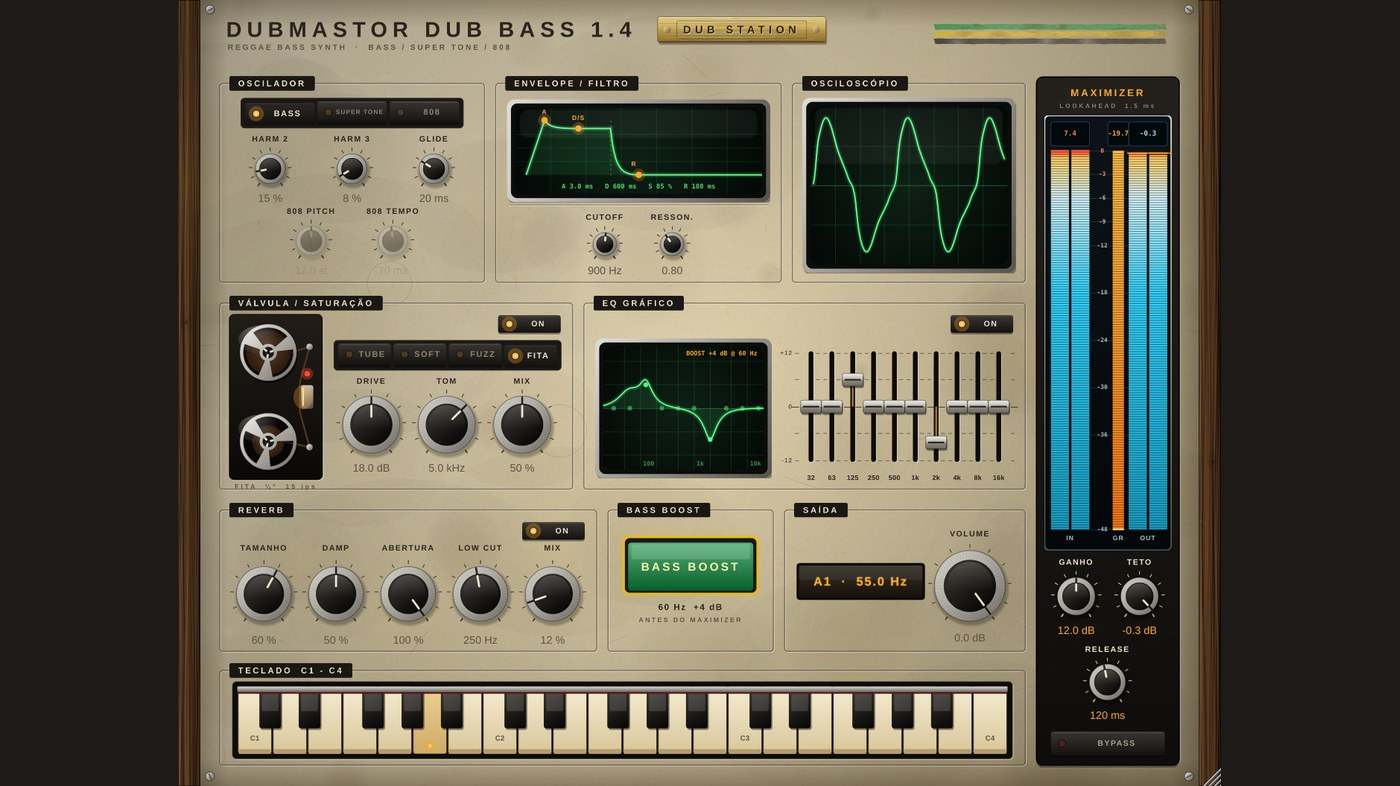
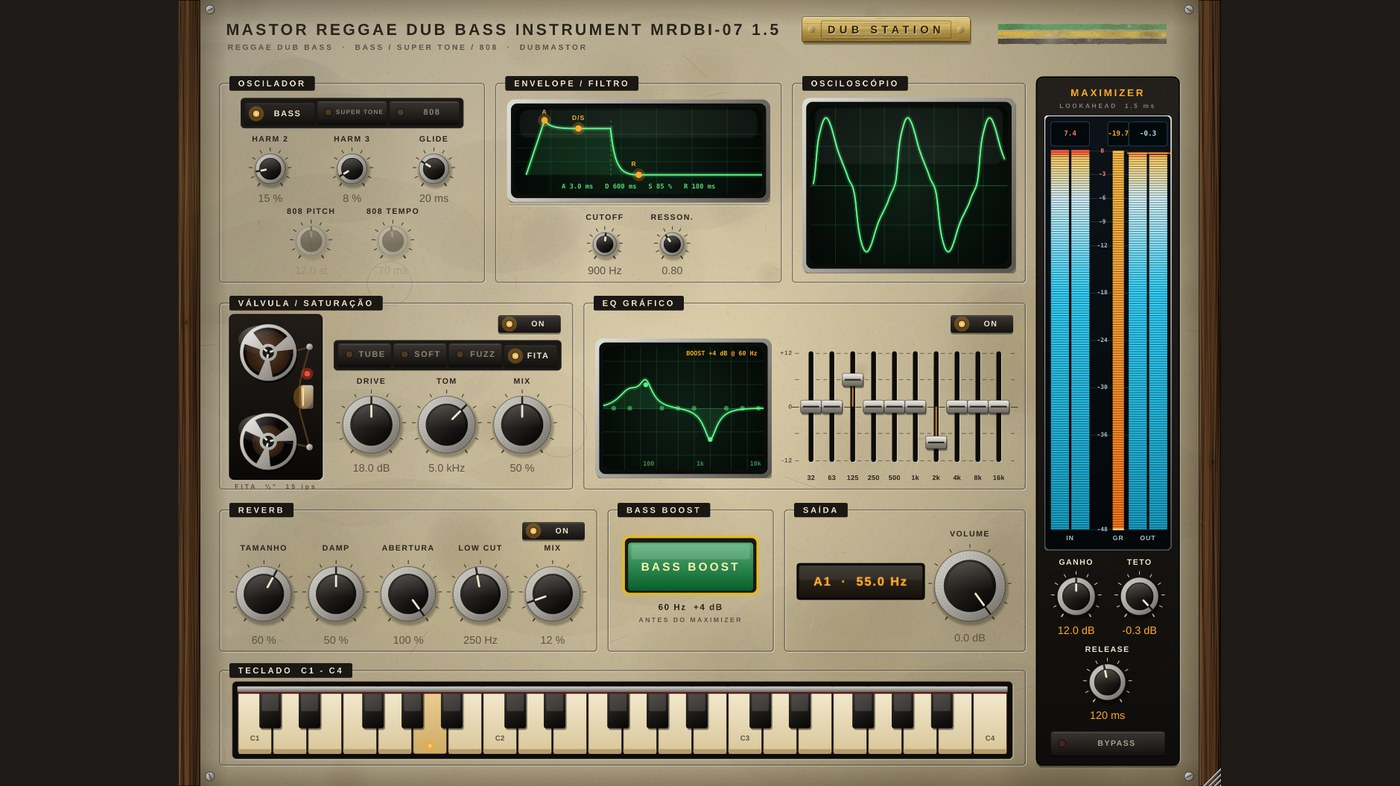
Mastor Reggae Dub Bass Instrument MRDBI-07 1.5 (antigo Dub Bass)
- Novo nome do plugin, dos arquivos (.vst3/.component/.app) e dos zips
  (MastorReggaeDubBassInstrument-Windows/macOS.zip); release MRDBI-07-<versão>
- Códigos do plugin mantidos: projetos com o Dub Bass abrem normalmente
- Título da interface com nome e versão (fonte se ajusta), plaqueta DUB STATION
- README, notas e site com o nome novo e os links da MRDBI-07-1.5

Claude-Session: https://claude.ai/code/session_01DJAeyYx8bE3tBpWMHDuGKq

Changed region(s): [[0.1536, 0.0, 0.7371, 0.0611]]

diff --git a/site/index.html b/site/index.html
@@ -4,9 +4,9 @@
 <meta charset="utf-8">
 <meta name="viewport" content="width=device-width, initial-scale=1">
 <title>DubMastor — Plugins de dub (VST3 / AU)</title>
-<meta name="description" content="Baixe os plugins DubMastor Big Knob, Dub Station 2.6, DubMastor Roots Keys, Mastor Dub Chords Machine, Dub Bass, Dub Drums, Mastor Bass Machine e Mastor Fone — VST3 para Windows e Mac, AU para Mac. Grátis.">
+<meta name="description" content="Baixe os plugins DubMastor Big Knob, Dub Station 2.6, DubMastor Roots Keys, Mastor Dub Chords Machine, Mastor Reggae Dub Bass Instrument, Dub Drums, Mastor Bass Machine e Mastor Fone — VST3 para Windows e Mac, AU para Mac. Grátis.">
 <meta property="og:title" content="DubMastor — Plugins de dub">
-<meta property="og:description" content="Big Knob 3.2, Dub Station 2.6, DubMastor Roots Keys, Mastor Dub Chords Machine, Dub Bass 1.4 e Mastor Fone: filtro estilo King Tubby, eco de fita, reverb de mola, piano M1, órgão Hammond, baixo de senoide e 808 e voz de rádio, telefone e megafone. VST3 / AU, Windows e Mac.">
+<meta property="og:description" content="Big Knob 3.2, Dub Station 2.6, DubMastor Roots Keys, Mastor Dub Chords Machine, Mastor Reggae Dub Bass Instrument MRDBI-07 1.5 e Mastor Fone: filtro estilo King Tubby, eco de fita, reverb de mola, piano M1, órgão Hammond, baixo de senoide e 808 e voz de rádio, telefone e megafone. VST3 / AU, Windows e Mac.">
 <meta property="og:image" content="img/dubstation21.jpg">
 <style>
   @font-face { font-family: "Plate"; src: url("fonts/ArchivoBlack-Regular.ttf") format("truetype"); font-display: swap; }
@@ -200,7 +200,7 @@
       </div>
     </div>
     <p class="signature">DubMastor</p>
-    <p class="lead"><span class="lamp" aria-hidden="true"></span>Filtro big knob estilo King Tubby, eco de fita de três cabeças, reverb de mola, o teclado DubMastor Roots Keys com piano M1 e órgão Hammond, o Dub Chords, que monta a harmonia do riddim, o Dub Bass, baixo de senoide e 808, o Dub Drums, que monta a bateria do riddim, e o Mastor Bass Machine, gerador de reggae bass lines, em plugins gratuitos para <strong>Windows</strong> e <strong>Mac</strong>. Feitos e testados para o Cubase.</p>
+    <p class="lead"><span class="lamp" aria-hidden="true"></span>Filtro big knob estilo King Tubby, eco de fita de três cabeças, reverb de mola, o teclado DubMastor Roots Keys com piano M1 e órgão Hammond, o Dub Chords, que monta a harmonia do riddim, o Mastor Reggae Dub Bass Instrument (MRDBI-07), baixo de senoide e 808, o Dub Drums, que monta a bateria do riddim, e o Mastor Bass Machine, gerador de reggae bass lines, em plugins gratuitos para <strong>Windows</strong> e <strong>Mac</strong>. Feitos e testados para o Cubase.</p>
   </header>
 
   <main>
@@ -286,10 +286,10 @@
         </article>
 
         <article class="card">
-          <img class="shot" src="img/dubbass.jpg" alt="Interface do Dub Bass: painel creme com laterais de madeira e plaqueta de latão; seções de oscilador, envelope e filtro, osciloscópio verde, válvula 12AX7 acesa ao lado dos knobs de saturação, EQ gráfico com faders, reverb, botão verde de bass boost, teclado de marfim de C1 a C4 e, na lateral direita, o maximizer com VU digital" width="1400" height="786" loading="lazy">
+          <img class="shot" src="img/dubbass.jpg" alt="Interface do Mastor Reggae Dub Bass Instrument MRDBI-07: painel creme com laterais de madeira e plaqueta de latão; seções de oscilador, envelope e filtro, osciloscópio verde, válvula 12AX7 acesa ao lado dos knobs de saturação, EQ gráfico com faders, reverb, botão verde de bass boost, teclado de marfim de C1 a C4 e, na lateral direita, o maximizer com VU digital" width="1400" height="786" loading="lazy">
           <div class="body">
-            <h3>Dub Bass <small>1.4</small></h3>
-            <p>Sintetizador de baixo de reggae: a senoide redonda do roots clássico, o Super Tone digital da era King Jammy ou o 808 com o pitch caindo. Mono, com glide entre as notas.</p>
+            <h3>Mastor Reggae Dub Bass Instrument MRDBI-07 <small>1.5</small></h3>
+            <p>O antigo Dub Bass. Sintetizador de baixo de reggae: a senoide redonda do roots clássico, o Super Tone digital da era King Jammy ou o 808 com o pitch caindo. Mono, com glide entre as notas.</p>
             <ul>
               <li>Timbres Bass (senoide com harmônicos), Super Tone (o baixo digital Sleng Teng do King Jammy) e 808 com knock e clique de bumbo</li>
               <li>Envelope gráfico e EQ editáveis com o mouse na tela verde</li>
@@ -300,8 +300,8 @@
             </ul>
             <div class="formats">Instrumento · Windows: VST3 + standalone · Mac: VST3, AU + standalone (Intel e Apple Silicon)</div>
             <div class="dl">
-              <a class="btn" href="https://github.com/dubmastor/DubMastor-DubStation-/releases/download/DubBass-1.4/DubBass-Windows.zip">⬇ Windows<span>VST3 · zip</span></a>
-              <a class="btn alt" href="https://github.com/dubmastor/DubMastor-DubStation-/releases/download/DubBass-1.4/DubBass-macOS.zip">⬇ Mac<span>VST3 + AU · zip</span></a>
+              <a class="btn" href="https://github.com/dubmastor/DubMastor-DubStation-/releases/download/MRDBI-07-1.5/MastorReggaeDubBassInstrument-Windows.zip">⬇ Windows<span>VST3 · zip</span></a>
+              <a class="btn alt" href="https://github.com/dubmastor/DubMastor-DubStation-/releases/download/MRDBI-07-1.5/MastorReggaeDubBassInstrument-macOS.zip">⬇ Mac<span>VST3 + AU · zip</span></a>
             </div>
           </div>
         </article>
@@ -392,14 +392,14 @@ xattr -dr com.apple.quarantine ~/Library/Audio/Plug-Ins/VST3/"FitaEco TE-12.vst3
 xattr -dr com.apple.quarantine ~/Library/Audio/Plug-Ins/VST3/"DubMastor Roots Keys.vst3"
 xattr -dr com.apple.quarantine ~/Library/Audio/Plug-Ins/VST3/"Mastor Fone.vst3"
 xattr -dr com.apple.quarantine ~/Library/Audio/Plug-Ins/VST3/"Mastor Dub Chords Machine MDCM-404.vst3"
-xattr -dr com.apple.quarantine ~/Library/Audio/Plug-Ins/VST3/"Dub Bass - Dub Station.vst3"
+xattr -dr com.apple.quarantine ~/Library/Audio/Plug-Ins/VST3/"Mastor Reggae Dub Bass Instrument MRDBI-07.vst3"
 xattr -dr com.apple.quarantine ~/Library/Audio/Plug-Ins/VST3/"DubMastor Dub Drums.vst3"
 xattr -dr com.apple.quarantine ~/Library/Audio/Plug-Ins/VST3/"Mastor Bass Machine MBM-710.vst3"</pre></li>
             <li>Abra o Cubase.</li>
           </ol>
         </div>
       </div>
-      <p class="note"><strong>O plugin não apareceu?</strong> No Cubase, abra <em>Studio → VST Plug-in Manager</em> e faça um novo scan; se ele estiver na lista de bloqueados, clique em <em>Reactivate</em>. Na lista de plugins, o Dub Station aparece como <strong>FitaEco TE-12</strong>, do fabricante DubMastor. O <strong>DubMastor Roots Keys</strong>, o <strong>Dub Chords</strong>, o <strong>Dub Bass</strong>, o <strong>Dub Drums</strong> e o <strong>Mastor Bass Machine</strong> são instrumentos: carregue-os numa <em>Instrument Track</em>, não como efeito.</p>
+      <p class="note"><strong>O plugin não apareceu?</strong> No Cubase, abra <em>Studio → VST Plug-in Manager</em> e faça um novo scan; se ele estiver na lista de bloqueados, clique em <em>Reactivate</em>. Na lista de plugins, o Dub Station aparece como <strong>FitaEco TE-12</strong>, do fabricante DubMastor. O <strong>DubMastor Roots Keys</strong>, o <strong>Dub Chords</strong>, o <strong>Mastor Reggae Dub Bass Instrument</strong>, o <strong>Dub Drums</strong> e o <strong>Mastor Bass Machine</strong> são instrumentos: carregue-os numa <em>Instrument Track</em>, não como efeito.</p>
     </section>
   </main>
 

diff --git a/DubBass/Source/PluginEditor.cpp b/DubBass/Source/PluginEditor.cpp
@@ -1571,16 +1571,24 @@ void DubBassPanel::renderBackground()
     screw ((float) plate.getX() + m, (float) plate.getBottom() - m);
     screw ((float) plate.getRight() - m, (float) plate.getBottom() - m);
 
-    // --- cabeçalho
+    // --- cabeçalho: nome completo + versão; a fonte encolhe até caber antes da plaqueta
+    const float stripesX = (float) plate.getRight() - 250.0f;
+    g.setFont (stencil (15.0f, 0.34f));
+    const juce::String plateText ("DUB STATION");
+    const float plateW = juce::GlyphArrangement::getStringWidth (g.getCurrentFont(), plateText) + 64.0f;
+    const juce::String title ("MASTOR REGGAE DUB BASS INSTRUMENT MRDBI-07 " + versionShort());
+    const float maxW = stripesX - 24.0f - plateW - 26.0f - ((float) plate.getX() + 32.0f);
+    float fs = 30.0f;
+    while (fs > 16.0f && juce::GlyphArrangement::getStringWidth (stencil (fs, 0.14f), title) > maxW)
+        fs -= 0.5f;
     g.setColour (colours::ink);
-    g.setFont (stencil (30.0f, 0.22f));
-    const juce::String title ("DUBMASTOR DUB BASS " + versionShort());
-    g.drawText (title, plate.getX() + 32, 20, 760, 34, juce::Justification::left);
+    g.setFont (stencil (fs, 0.14f));
+    g.drawText (title, plate.getX() + 32, 20, (int) maxW + 4, 34, juce::Justification::left);
     const float titleRight = (float) plate.getX() + 32.0f + juce::GlyphArrangement::getStringWidth (g.getCurrentFont(), title);
 
     {   // placa de latão "DUB STATION"
         g.setFont (stencil (15.0f, 0.34f));
-        const juce::String t ("DUB STATION");
+        const juce::String t (plateText);
         const float tw = juce::GlyphArrangement::getStringWidth (g.getCurrentFont(), t);
         auto pl = juce::Rectangle<float> (titleRight + 26.0f, 21.0f, tw + 64.0f, 32.0f);
         g.setColour (juce::Colours::black.withAlpha (0.28f));
@@ -1619,10 +1627,10 @@ void DubBassPanel::renderBackground()
     }
     g.setColour (colours::inkSoft);
     g.setFont (stencil (10.5f, 0.25f));
-    g.drawText (juce::String::fromUTF8 ("REGGAE BASS SYNTH  ·  BASS / SUPER TONE / 808"), plate.getX() + 34, 52, 600, 14, juce::Justification::left);
+    g.drawText (juce::String::fromUTF8 ("REGGAE DUB BASS  ·  BASS / SUPER TONE / 808  ·  DUBMASTOR"), plate.getX() + 34, 52, 600, 14, juce::Justification::left);
 
     {   // faixas da bandeira da Jamaica, pintadas à mão e envelhecidas
-        const float sx = (float) plate.getRight() - 330.0f, sw = 290.0f, sh = 7.0f;
+        const float sx = (float) plate.getRight() - 250.0f, sw = 210.0f, sh = 7.0f;
         const juce::Colour faded[] = {
             colours::jamGreen.interpolatedWith (juce::Colour (0xff6f7a4a), 0.35f),
             colours::jamGold.interpolatedWith (juce::Colour (0xffb08a3a), 0.40f),

diff --git a/README.md b/README.md
@@ -20,7 +20,7 @@ bubble, já alinhados, de 4 a 64 compassos) para a timeline. Um projeto começa 
 | **DubMastor Big Knob 3.2** | Estação de dub: filtro big knob estilo King Tubby (com bypass), eco de fita com cabeçotes, presets de EQ e liga/desliga, sirene de dub, VUs e maximizer | [⬇ macOS](https://github.com/dubmastor/DubMastor-DubStation-/releases/latest/download/DubMastorBigKnob-macOS.zip) | [⬇ Windows](https://github.com/dubmastor/DubMastor-DubStation-/releases/latest/download/DubMastorBigKnob-Windows.zip) | [BigKnob/](BigKnob/) |
 | **DubMastor Roots Keys 2.3** | Instrumento: piano estilo Korg M1 e órgão estilo Hammond com Leslie, eco de fita FitaEco, flanger dub, maximizer, VUs e teclado que acende com o MIDI; aba **Dub Chords** com acordes de duas mãos (6 notas) para montar o riddim e arrastar o MIDI para a DAW; visual de teclado anos 80 no piano e de madeira e marfim no órgão | [⬇ macOS](https://github.com/dubmastor/DubMastor-DubStation-/releases/download/RootsKeys-2.3/DubMastorRootsKeys-macOS.zip) | [⬇ Windows](https://github.com/dubmastor/DubMastor-DubStation-/releases/download/RootsKeys-2.3/DubMastorRootsKeys-Windows.zip) | [RootsKeys/](RootsKeys/) |
 | **Mastor Dub Chords Machine MDCM-404 1.4** | Instrumento / gerador MIDI: escolha até 4 acordes (teclado mecânico, maior/menor, inversões com sugestão automática, contador de compassos) e ele toca o skank de piano M1 com as duas mãos e o bubble de Hammond no andamento da DAW; arraste o MIDI colorido por acorde para a timeline | [⬇ macOS](https://github.com/dubmastor/DubMastor-DubStation-/releases/download/MDCM-404-1.4/MastorDubChordsMachine-macOS.zip) | [⬇ Windows](https://github.com/dubmastor/DubMastor-DubStation-/releases/download/MDCM-404-1.4/MastorDubChordsMachine-Windows.zip) | [DubChords/](DubChords/) |
-| **Dub Bass - Dub Station 1.4** | Instrumento: baixo de reggae Bass (senoide), Super Tone (digital King Jammy) ou 808, envelope gráfico, saturação com válvula animada ou fita de rolo, EQ editável na tela, reverb, bass boost em 60 Hz, teclado C1–C4 e maximizer com VU digital estilo Ozone | [⬇ macOS](https://github.com/dubmastor/DubMastor-DubStation-/releases/download/DubBass-1.4/DubBass-macOS.zip) | [⬇ Windows](https://github.com/dubmastor/DubMastor-DubStation-/releases/download/DubBass-1.4/DubBass-Windows.zip) | [DubBass/](DubBass/) |
+| **Mastor Reggae Dub Bass Instrument MRDBI-07 1.5** | Instrumento (antigo Dub Bass): baixo de reggae Bass (senoide), Super Tone (digital King Jammy) ou 808, envelope gráfico, saturação com válvula animada ou fita de rolo, EQ editável na tela, reverb, bass boost em 60 Hz, teclado C1–C4 e maximizer com VU digital estilo Ozone | [⬇ macOS](https://github.com/dubmastor/DubMastor-DubStation-/releases/download/MRDBI-07-1.5/MastorReggaeDubBassInstrument-macOS.zip) | [⬇ Windows](https://github.com/dubmastor/DubMastor-DubStation-/releases/download/MRDBI-07-1.5/MastorReggaeDubBassInstrument-Windows.zip) | [DubBass/](DubBass/) |
 | **DubMastor Dub Drums 1.1** | Instrumento / gerador MIDI: esqueleto da bateria de reggae (Rockers, One Drop) e Boom Bap, com caixa no 2 e no 4 e bumbo/caixa editáveis por colcheia, com chave de baterista (Style Scott, Santa Davis, Carlton Barrett) com a assinatura de hi-hat e as viradas de cada um, caixa/aro, virada de intro, kit anos 70 ou digital (King Jammy / Sleng Teng), MIDI colorido por compasso e mapa de notas | [⬇ macOS](https://github.com/dubmastor/DubMastor-DubStation-/releases/download/DubDrums-1.1/DubMastorDubDrums-macOS.zip) | [⬇ Windows](https://github.com/dubmastor/DubMastor-DubStation-/releases/download/DubDrums-1.1/DubMastorDubDrums-Windows.zip) | [DubDrums/](DubDrums/) |
 | **Mastor Bass Machine MBM-710 2.3** | Instrumento / gerador de reggae bass lines em MIDI: botoeira com 7 baixistas (Family Man, Flabba, Derrick Barnett, Robbie, Leroy Sibbles, Fully Fullwood, Jammys/Sleng Teng) sobre até 4 acordes; preview com os timbres do Dub Bass (Roots Sine e Super Tone), bateria de acompanhamento (Roots, One Drop, Digital, Dancehall) e teclado do Roots Keys; arraste o MIDI para a timeline | [⬇ macOS](https://github.com/dubmastor/DubMastor-DubStation-/releases/download/BassMachine-2.3/MastorBassMachine-macOS.zip) | [⬇ Windows](https://github.com/dubmastor/DubMastor-DubStation-/releases/download/BassMachine-2.3/MastorBassMachine-Windows.zip) | [BassMachine/](BassMachine/) |
 | **Mastor Dub Horns 1.1** | Instrumento: naipe de metais anos 70 (trompete, flugel, saxes e trombone) com harmonia no tom, timbres de estúdio jamaicano, Mastor Tape Echo, EQ gráfico de 10 bandas com Filtro Tubby e frases MIDI (ataques estilo Dean Fraser e introduções) com notas escolhidas por você | [⬇ macOS](https://github.com/dubmastor/DubMastor-DubStation-/releases/download/MastorDubHorns-1.1/MastorDubHorns-macOS.zip) | [⬇ Windows](https://github.com/dubmastor/DubMastor-DubStation-/releases/download/MastorDubHorns-1.1/MastorDubHorns-Windows.zip) | [MastorDubHorns/](MastorDubHorns/) |
@@ -42,7 +42,7 @@ Todos os downloads ficam na página de **[Releases](https://github.com/dubmastor
    xattr -dr com.apple.quarantine ~/Library/Audio/Plug-Ins/VST3/"DubMastor Roots Keys.vst3"
    xattr -dr com.apple.quarantine ~/Library/Audio/Plug-Ins/VST3/"Mastor Fone.vst3"
    xattr -dr com.apple.quarantine ~/Library/Audio/Plug-Ins/VST3/"Mastor Dub Chords Machine MDCM-404.vst3"
-   xattr -dr com.apple.quarantine ~/Library/Audio/Plug-Ins/VST3/"Dub Bass - Dub Station.vst3"
+   xattr -dr com.apple.quarantine ~/Library/Audio/Plug-Ins/VST3/"Mastor Reggae Dub Bass Instrument MRDBI-07.vst3"
    xattr -dr com.apple.quarantine ~/Library/Audio/Plug-Ins/VST3/"DubMastor Dub Drums.vst3"
    xattr -dr com.apple.quarantine ~/Library/Audio/Plug-Ins/VST3/"Mastor Bass Machine MBM-710.vst3"
    xattr -dr com.apple.quarantine ~/Library/Audio/Plug-Ins/VST3/"Mastor Dub Horns.vst3"
@@ -67,7 +67,7 @@ DubStation21/                    Dub Station 2.6 — FitaEco TE-12 (C++ / JUCE 8
 RootsKeys/                       DubMastor Roots Keys — piano M1 + órgão Hammond + Dub Chords (C++ / JUCE 8)
 MastorFone/                      Mastor Fone — rádio AM, telefone e megafone para voz (C++ / JUCE 8)
 DubChords/                       Mastor Dub Chords Machine MDCM-404 — gerador de skank/harmonia para riddim (C++ / JUCE 8)
-DubBass/                         Dub Bass - Dub Station — baixo de reggae senoide / 808 (C++ / JUCE 8)
+DubBass/                         Mastor Reggae Dub Bass Instrument MRDBI-07 — baixo de reggae Bass / Super Tone / 808 (C++ / JUCE 8)
 DubDrums/                        DubMastor Dub Drums — gerador de bateria de reggae com bateria interna (C++ / JUCE 8)
 BassMachine/                     Mastor Bass Machine MBM-710 — gerador de reggae bass lines (preview com Dub Bass, Dub Drums e Roots Keys) (C++ / JUCE 8)
 MastorDubHorns/                  Mastor Dub Horns — naipe de metais anos 70 + Mastor Tape Echo (C++ / JUCE 8)
@@ -78,7 +78,7 @@ RiddimMachine/                   Mastor Riddim Machine MRM-0420 — Dub Chords +
   build-rootskeys.yml            compila, valida e publica o DubMastor Roots Keys
   build-mastorfone.yml           compila, valida e publica o Mastor Fone
   build-dubchords.yml            compila, valida e publica o MDCM-404
-  build-dubbass.yml              testa, compila, valida e publica o Dub Bass (release DubBass-x.y a cada versão)
+  build-dubbass.yml              testa, compila, valida e publica o MRDBI-07 (release MRDBI-07-x.y a cada versão)
   build-dubdrums.yml             testa, compila, valida e publica o Dub Drums (release DubDrums-x.y a cada versão)
   build-bassmachine.yml          testa, compila, valida e publica o Bass Machine (release BassMachine-x.y a cada versão)
   build-mastordubhorns.yml       testa, compila, valida e publica o Mastor Dub Horns (release MastorDubHorns-x.y a cada versão)

diff --git a/DubBass/README.md b/DubBass/README.md
@@ -1,6 +1,8 @@
-# Dub Bass - Dub Station 1.4
+# Mastor Reggae Dub Bass Instrument MRDBI-07 1.5
 
-Instrumento de baixo de reggae (VST3 / AU / Standalone) da linha **DubMastor · Dub Station**, no mesmo visual do Dub Chords: painel creme envelhecido, laterais de madeira, versão no título (DUBMASTOR DUB BASS x.y), plaqueta de latão DUB STATION, knobs de baquelite e lâmpadas âmbar.
+O antigo **Dub Bass**.
+
+Instrumento de baixo de reggae (VST3 / AU / Standalone) da linha **DubMastor · Dub Station**, no mesmo visual do Dub Chords: painel creme envelhecido, laterais de madeira, nome e versão no título (MASTOR REGGAE DUB BASS INSTRUMENT MRDBI-07 x.y), plaqueta de latão DUB STATION, knobs de baquelite e lâmpadas âmbar.
 
 ![Interface](docs/interface.png)
 
@@ -31,7 +33,7 @@ Mono/legato: no Classic Sine as notas ligadas deslizam com o glide; no 808 cada 
 
 ## Versão
 
-A versão fica em `CMakeLists.txt` (`project(DubBass VERSION x.y.z)`) e aparece sozinha na plaqueta de latão. A cada atualização: suba a versão, atualize `RELEASE_NOTES.md`, o README da raiz e o card do site. O push na `main` publica a release `DubBass-x.y` sozinho.
+A versão fica em `CMakeLists.txt` (`project(DubBass VERSION x.y.z)`) e aparece sozinha no título da interface. A cada atualização: suba a versão, atualize `RELEASE_NOTES.md`, o README da raiz e o card do site. O push na `main` publica a release `MRDBI-07-x.y` sozinho.
 
 ## Compilar
 
@@ -49,4 +51,4 @@ cmake -B build-test -DDUBBASS_TESTS=ON && cmake --build build-test --target DubB
 
 ## Publicar
 
-O workflow `.github/workflows/build-dubbass.yml` roda o teste, compila Windows e Mac (universal), valida com pluginval e auval e, a cada push na `main` que mexa no Dub Bass, cria (ou atualiza) a release `DubBass-x.y` da versão do `CMakeLists.txt` com `DubBass-Windows.zip` e `DubBass-macOS.zip`. A release do Dub Bass não vira a "latest", para não mexer nos links dos outros plugins.
+O workflow `.github/workflows/build-dubbass.yml` roda o teste, compila Windows e Mac (universal), valida com pluginval e auval e, a cada push na `main` que mexa no Dub Bass, cria (ou atualiza) a release `MRDBI-07-x.y` da versão do `CMakeLists.txt` com `MastorReggaeDubBassInstrument-Windows.zip` e `MastorReggaeDubBassInstrument-macOS.zip`. A release não vira a "latest", para não mexer nos links dos outros plugins.

diff --git a/DubBass/RELEASE_NOTES.md b/DubBass/RELEASE_NOTES.md
@@ -1,8 +1,12 @@
-## Dub Bass - Dub Station 1.4 🟢🟡⚫
+## Mastor Reggae Dub Bass Instrument MRDBI-07 1.5 🟢🟡⚫
 
 Baixo de reggae para a linha Dub Station: a senoide redonda do roots clássico com harmônicos, o 808 com o pitch caindo, ou o Super Tone digital da era King Jammy.
 
-**Novo na 1.4**
+**Novo na 1.5**
+- Novo nome: **Mastor Reggae Dub Bass Instrument MRDBI-07** (antigo Dub Bass). Projetos salvos com o Dub Bass abrem normalmente: o plugin é o mesmo por dentro
+- Nome e versão no título da interface; plaqueta de latão DUB STATION
+
+**Na 1.4**
 - **808 melhorado**: "knock" no ataque que some junto com o drop de pitch, clique de bumbo e saturação assimétrica (grave mais gordo e audível em caixa pequena)
 - **Envelope gráfico**: arraste os pontos A, D/S e R na tela verde; duplo clique volta ao padrão
 - **Saturação FITA** com gravador de rolo animado: os rolos giram, a fita passa pela cabeça que acende com a saturação; som de fita com "head bump" de grave
@@ -32,9 +36,9 @@ Baixo de reggae para a linha Dub Station: a senoide redonda do roots clássico c
 - BASS BOOST: +4 dB em 60 Hz, antes do maximizer
 
 É um instrumento: no Cubase, carregue numa *Instrument Track*.
-Downloads: `DubBass-Windows.zip` e `DubBass-macOS.zip`.
+Downloads: `MastorReggaeDubBassInstrument-Windows.zip` e `MastorReggaeDubBassInstrument-macOS.zip`.
 
 No Mac, depois de copiar o `.vst3`:
 ```
-xattr -dr com.apple.quarantine ~/Library/Audio/Plug-Ins/VST3/"Dub Bass - Dub Station.vst3"
+xattr -dr com.apple.quarantine ~/Library/Audio/Plug-Ins/VST3/"Mastor Reggae Dub Bass Instrument MRDBI-07.vst3"
 ```
